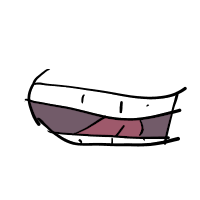
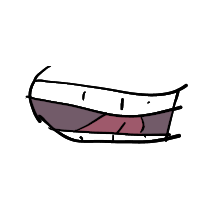
Removing obsolete code

Changed region(s): [[0.12, 0.33, 0.96, 0.75]]

diff --git a/src/store/tuplibraryfolder.cpp b/src/store/tuplibraryfolder.cpp
@@ -231,6 +231,7 @@ bool TupLibraryFolder::removeObject(const QString &key, bool absolute)
                 }
             }
 
+            objects[key] = nullptr;
             return objects.remove(key);
         }
     }
@@ -769,108 +770,3 @@ TupLibraryObject * TupLibraryFolder::findSoundFile(const QString &folderId)
 
     return nullptr;
 }
-
-/*
-void TupLibraryFolder::addSoundResource(TupLibraryObject *object)
-{
-    SoundResource record;
-    record.key = object->getSymbolName();
-    record.frame = object->frameToPlay();
-    record.path = object->getDataPath();
-    record.muted = object->isMuted();
-    record.type = object->getSoundType();
-
-    soundRecords << record;
-}
-
-bool TupLibraryFolder::removeSoundResource(const QString &id)
-{
-    #ifdef TUP_DEBUG
-        qDebug() << "[TupLibraryFolder::removeSoundResource()] - id -> " << id;
-        qDebug() << "[TupLibraryFolder::removeSoundResource()] - soundRecords.size() -> " << soundRecords.size();
-    #endif
-
-    for (int i=0; i<soundRecords.size(); i++) {
-        SoundResource item = soundRecords.at(i);
-        #ifdef TUP_DEBUG
-            qDebug() << "[TupLibraryFolder::removeSoundResource()] - record key -> " << item.key;
-        #endif
-        if (item.key.compare(id) == 0) {
-            soundRecords.removeAt(i);
-            return true;
-        }
-    }
-
-    return false;
-}
-
-bool TupLibraryFolder::updateSoundResourcesItem(TupLibraryObject *item)
-{
-    int size = soundRecords.count();
-    #ifdef TUP_DEBUG
-        qDebug() << "[TupLibraryFolder::updateSoundResourcesItem()] - item -> "
-                 << item->getSymbolName();
-        qDebug() << "[TupLibraryFolder::updateSoundResourcesItem()] - item path -> "
-                 << item->getDataPath();
-        qDebug() << "[TupLibraryFolder::updateSoundResourcesItem()] - soundRecords.count() -> "
-                 << size;
-    #endif
-
-    for(int i=0; i<size; i++) {
-        SoundResource record = soundRecords.at(i);
-        #ifdef TUP_DEBUG
-            qDebug() << "[TupLibraryFolder::updateSoundResourcesItem()] - record path -> "
-                     << record.path;
-        #endif
-        if (item->getDataPath().compare(record.path) == 0) {
-            record.key = item->getSymbolName();
-            record.frame = item->frameToPlay();
-            record.muted = item->isMuted();
-            record.type = item->getSoundType();
-            soundRecords.replace(i, record);
-
-            #ifdef TUP_DEBUG
-                qDebug() << "[TupLibraryFolder::updateSoundResourcesItem()] - Record updated successfully!";
-            #endif
-
-            return true;
-        }
-    }
-
-    return false;
-}
-
-void TupLibraryFolder::updateSoundPaths(const QString &newPath)
-{
-    #ifdef TUP_DEBUG
-        qDebug() << "---";
-        qDebug() << "[TupLibraryFolder::updateSoundPaths()] - newPath -> " << newPath;
-        qDebug() << "[TupLibraryFolder::updateSoundPaths()] - old path -> " << kAppProp->projectDir();
-    #endif
-
-    for (int i=0; i<soundRecords.size(); i++) {
-        SoundResource item = soundRecords.at(i);
-        QString oldPath = item.path;
-        int range = oldPath.length() - oldPath.indexOf("audio");
-        QString path = newPath + "/" + oldPath.right(range);
-
-        #ifdef TUP_DEBUG
-            qDebug() << "[TupLibraryFolder::updateSoundPaths()] - oldPath -> " << oldPath;
-            qDebug() << "[TupLibraryFolder::updateSoundPaths()] - path -> " << path;
-        #endif
-
-        item.path = path;
-        soundRecords[i] = item;
-    }
-}
-
-QList<SoundResource> TupLibraryFolder::soundResourcesList()
-{
-    #ifdef TUP_DEBUG
-        qDebug() << "[TupLibraryFolder::soundResourcesList()] - items size -> "
-                 << soundRecords.size();
-    #endif
-
-    return soundRecords;
-}
-*/

diff --git a/src/store/tuplibraryobject.cpp b/src/store/tuplibraryobject.cpp
@@ -615,20 +615,23 @@ bool TupLibraryObject::saveData(const QString &projectDir)
                      if (isOk != -1) {
                          #ifdef TUP_DEBUG
                              qDebug() << "[TupLibraryObject::saveData()] - "
-                                         "Audio file has been saved successfully -> " << dataPath;
+                                         "Audio file has been saved successfully -> "
+                                         << dataPath;
                          #endif
                          return true;
                      } else {
                          #ifdef TUP_DEBUG
                              qDebug() << "[TupLibraryObject::saveData()] - "
-                                         "Fatal Error: Can't save audio file -> " << dataPath;
+                                         "Fatal Error: Can't save audio file -> "
+                                         << dataPath;
                          #endif
                          return false;
                      }
                  } else {
                      #ifdef TUP_DEBUG
                          qDebug() << "[TupLibraryObject::saveData()] - "
-                                     "Fatal Error: Lack of permissions to save audio file -> " << dataPath;
+                                     "Fatal Error: Lack of permissions to save audio file -> "
+                                  << dataPath;
                      #endif
                      file.close();
                      return false;
@@ -656,7 +659,8 @@ bool TupLibraryObject::saveData(const QString &projectDir)
                  } else {
                      #ifdef TUP_DEBUG
                          qDebug() << "[TupLibraryObject::saveData()] - "
-                                     "Fatal Error: Lack of permission to save file -> " << dataPath;
+                                     "Fatal Error: Lack of permission to save file -> "
+                                  << dataPath;
                      #endif
                      file.close();
                      return false;

diff --git a/src/components/papagayo/tuplipsyncdoc.cpp b/src/components/papagayo/tuplipsyncdoc.cpp
@@ -16,7 +16,6 @@
 
 #include "tuplipsyncdoc.h"
 
-#include <QFile>
 #include <QFileInfo>
 #include <QDir>
 
@@ -87,6 +86,10 @@ LipsyncWord::LipsyncWord()
 
 LipsyncWord::~LipsyncWord()
 {
+    #ifdef TUP_DEBUG
+        qDebug() << "[~LipsyncWord()]";
+    #endif
+
     clearPhonemes();
 }
 
@@ -255,16 +258,21 @@ int LipsyncWord::length()
 
 LipsyncPhrase::LipsyncPhrase()
 {
-    text = "";
+    text = QString();
     startFrame = 0;
     endFrame = 0;
-    top = bottom = 0;
+    top = 0;
+    bottom = 0;
 
     words = QList<LipsyncWord *>();
 }
 
 LipsyncPhrase::~LipsyncPhrase()
 {
+    #ifdef TUP_DEBUG
+        qDebug() << "[~LipsyncPhrase()]";
+    #endif
+
     clearWords();
 }
 
@@ -460,7 +468,9 @@ LipsyncVoice::LipsyncVoice(const QString &name)
 
 LipsyncVoice::~LipsyncVoice()
 {
-    clearPhrase();
+    #ifdef TUP_DEBUG
+        qDebug() << "[~LipsyncVoice()]";
+    #endif
 }
 
 void LipsyncVoice::setName(const QString &name)
@@ -765,8 +775,10 @@ bool LipsyncVoice::textIsEmpty()
 
 void LipsyncVoice::clearPhrase()
 {
-    phrase->setText("");
-    phrase->clearWords();
+    if (phrase) {
+        phrase->setText("");
+        phrase->clearWords();
+    }
 }
 
 /***/
@@ -894,17 +906,10 @@ TupLipsyncDoc::TupLipsyncDoc()
 
 TupLipsyncDoc::~TupLipsyncDoc()
 {
-    releaseAudioPlayer();
-
-    if (audioExtractor) {
-        delete audioExtractor;
-        audioExtractor = nullptr;
-	}
-
-    clearVoice();
+    resetDocument();
 }
 
-void TupLipsyncDoc::releaseAudioPlayer()
+void TupLipsyncDoc::resetDocument()
 {
     if (audioPlayer) {
         audioPlayer->stop();
@@ -912,6 +917,11 @@ void TupLipsyncDoc::releaseAudioPlayer()
 
         delete audioPlayer;
         audioPlayer = nullptr;
+    }
+
+    if (audioExtractor) {
+        delete audioExtractor;
+        audioExtractor = nullptr;
     }
 }
 

diff --git a/src/store/tuplibraryfolder.h b/src/store/tuplibraryfolder.h
@@ -115,10 +115,6 @@ class TUPITUBE_EXPORT TupLibraryFolder : public QObject, public TupAbstractSeria
         void releaseLipSyncVoices(const QString &soundFile);
         TupLibraryObject * findSoundFile(const QString &folder);
 
-        // QList<SoundResource> soundResourcesList();
-        // bool updateSoundResourcesItem(TupLibraryObject *item);
-        // void updateSoundPaths(const QString &newPath);
-
     public:
         virtual void fromXml(const QString &xml);
         virtual QDomElement toXml(QDomDocument &doc) const;
@@ -128,15 +124,10 @@ class TUPITUBE_EXPORT TupLibraryFolder : public QObject, public TupAbstractSeria
         void loadItem(const QString &folder, QDomNode xml);
         bool reloadObject(const QString &key, LibraryObjects bag);
 
-        // void addSoundResource(TupLibraryObject *object);
-        // bool removeSoundResource(const QString &key);
-
         QString id;
         Folders folders;
         LibraryObjects objects;
         TupProject *project;
         bool loadingProject;
-
-        // QList<SoundResource> soundRecords;
 };
 #endif

diff --git a/src/components/library/tuplibrarywidget.cpp b/src/components/library/tuplibrarywidget.cpp
@@ -384,7 +384,8 @@ void TupLibraryWidget::previewItem(QTreeWidgetItem *item)
                 default:
                    {
                      #ifdef TUP_DEBUG
-                         qDebug() << "[TupLibraryWidget::previewItem()] - Unknown symbol id -> " << object->getObjectType();
+                         qDebug() << "[TupLibraryWidget::previewItem()] - "
+                                     "Unknown symbol type -> " << object->getObjectType();
                      #endif
                    }
                    break;

diff --git a/src/plugins/tools/text/texttool.cpp b/src/plugins/tools/text/texttool.cpp
@@ -170,6 +170,7 @@ void TextTool::press(const TupInputDeviceInformation *input, TupBrushManager *br
         QGraphicsItem *item = currentSelection.at(0);
         if (TupTextItem *textItem = qgraphicsitem_cast<TupTextItem *>(item)) {
             if (!nodesManager) {
+                item->setFlag(QGraphicsItem::ItemIsMovable, false);
                 if (!item->isSelected())
                     item->setSelected(true);
                 nodesManager = new NodeManager(Node::Text, item, scene, nodeZValue);

diff --git a/src/components/library/tupsoundplayer.cpp b/src/components/library/tupsoundplayer.cpp
@@ -127,8 +127,9 @@ TupSoundPlayer::~TupSoundPlayer()
         qDebug() << "[~TupSoundPlayer()]";
     #endif
 
-    player->setMedia(QMediaContent());
-    delete player;
+    reset();
+    // player->setMedia(QMediaContent());
+    // delete player;
 }
 
 QSize TupSoundPlayer::sizeHint() const
@@ -266,6 +267,7 @@ bool TupSoundPlayer::isPlaying()
 
 void TupSoundPlayer::reset()
 {
+    player->stop();
     player->setMedia(QMediaContent());
     loop = false;
     loopBox->setChecked(false);

diff --git a/src/components/papagayo/tuppapagayoapp.cpp b/src/components/papagayo/tuppapagayoapp.cpp
@@ -1405,7 +1405,7 @@ bool TupPapagayoApp::saveLipsyncRecord()
                                     }
                                 }
 
-                                document->releaseAudioPlayer();
+                                document->resetDocument();
 
                                 #ifdef TUP_DEBUG
                                     qDebug() << "[TupPapagayoApp::saveLipsyncRecord()] - "

diff --git a/src/components/papagayo/tuplipsyncdoc.h b/src/components/papagayo/tuplipsyncdoc.h
@@ -245,7 +245,7 @@ class TupLipsyncDoc : public QObject
         void stopAudio();
 
         void clearVoice();
-        void releaseAudioPlayer();
+        void resetDocument();
 
     private:
         int32 fps;

diff --git a/src/components/library/tuplibrarydisplay.cpp b/src/components/library/tuplibrarydisplay.cpp
@@ -64,6 +64,7 @@ TupLibraryDisplay::~TupLibraryDisplay()
     #endif
 
     delete soundPlayer;
+    delete previewPanel;
 }
 
 QSize TupLibraryDisplay::sizeHint() const

diff --git a/src/components/papagayo/tupaudioextractor.h b/src/components/papagayo/tupaudioextractor.h
@@ -32,7 +32,6 @@
 //
 
 class TUPITUBE_EXPORT TupAudioExtractor : public QObject
-// class TupAudioExtractor : public QObject
 {
     Q_OBJECT
 
